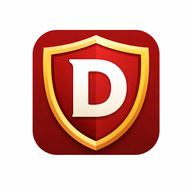
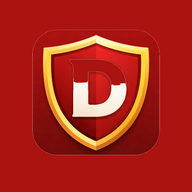
Icones PWA: omplir cantonades blanques amb roig perquè la icona ocupi tot l'espai (sense fons blanc a iOS) + SW v4

diff --git a/sw.js b/sw.js
@@ -1,6 +1,6 @@
 // Denunciem.cat — Service Worker
 // Versió: puja-la a cada release
-const CACHE = 'denunciem-v3';
+const CACHE = 'denunciem-v4';
 
 // Core: fitxers que canvien sovint → network-first
 const CORE = [
